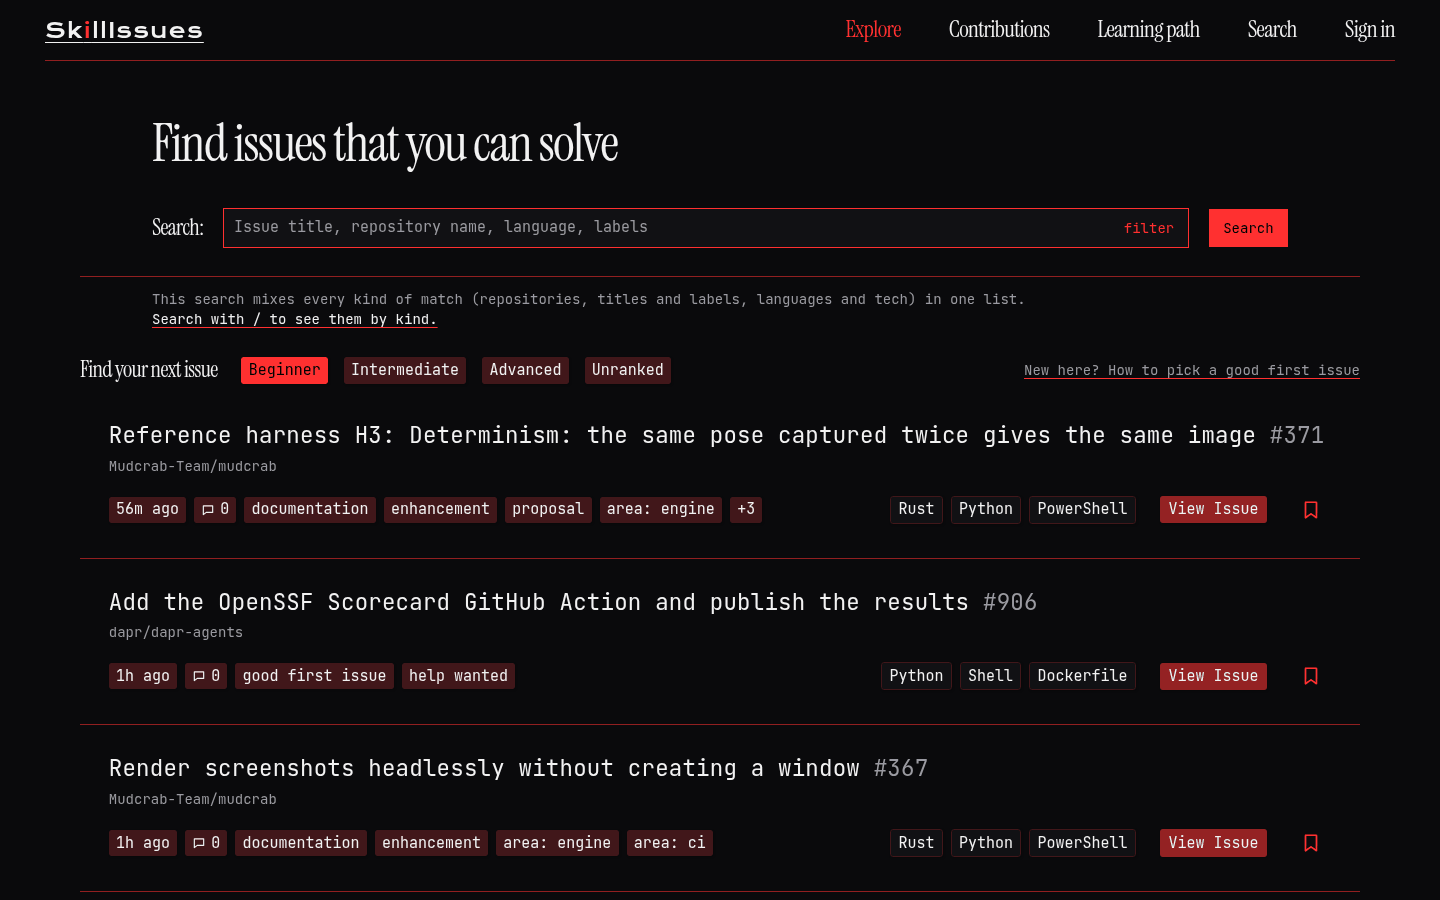
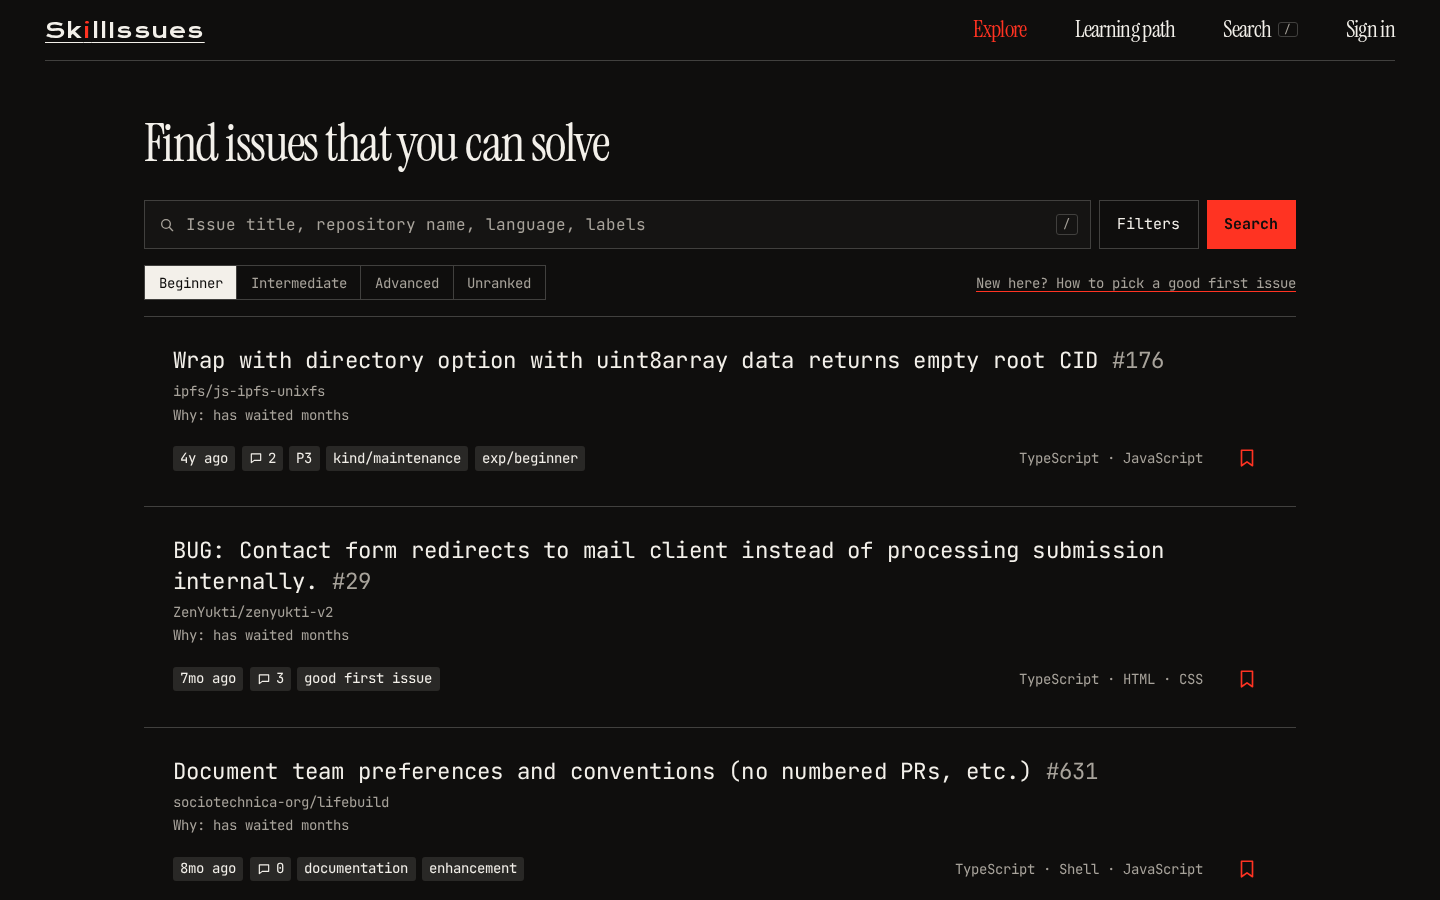
docs: website versions by date, desktop 1.4.0 notes, a current README
The changelogs version the website by merge date (2026.10.26) beside the
desktop's semver, with a table of every website version so far. The README
leads with the site's promise and fresh screenshots, and says how the
project uses AI tools. Desktop 1.4.0's notes cover the refreshed app.

diff --git a/web/content/docs/changelog.md b/web/content/docs/changelog.md
@@ -4,18 +4,28 @@ slug: /docs/changelog
 section: SkillIssues
 summary: Where releases are published, and a summary of the notable changes made recently.
 draft: false
-updated: 2026-10-24
+updated: 2026-10-27
 ---
 
 ## Releases
 
-Desktop builds and release notes are published on the [GitHub releases page](https://github.com/dizziedbliss/SkillIssues/releases). The website and API are not versioned that way: every change that is merged to the main branch passes its automated checks and is deployed.
+Desktop builds and release notes are published on the [GitHub releases page](https://github.com/dizziedbliss/SkillIssues/releases), numbered like `1.4.0`. The website and API deploy every change merged to the main branch once it passes its checks, so they're versioned by date instead: **website `2026.10.26`** is what was merged on 26 October (UTC).
 
 The full, detailed history is in [CHANGELOG.md](https://github.com/dizziedbliss/SkillIssues/blob/main/CHANGELOG.md) in the repository. This page summarises the parts you are most likely to notice.
 
 ## October 2026
 
-### A new home page and calmer colours, 24 October
+### Website 2026.10.26 · Desktop 1.4.0: a waiting issue, and a calmer app
+
+- **The home page leads with a real issue that has been waiting**, and how long: "Someone opened this 260 days ago. Nobody has fixed it yet." Pick a language and a level to swap it, or **[Find an issue]** to open Explore with those choices. It never shows an issue from a repository that's slow to merge, or one over a year old.
+- **Your profile, rebuilt.** Your level large at the top; **Next up** with your pull requests in review, issues you've claimed and your learning path, then the quests you're closest to finishing; one list of your pull requests with the XP each earned; earned badges, with how you earned each on hover.
+- **Your contributions**: your numbers, your year, every pull request with All, Merged and Open, where your XP came from, and every quest.
+- **Quicker to find things.** One search bar everywhere; filters that say what they mean when you open them; the levels and your languages in one row; `/` opens search as a palette. The top bar holds where you work, the Profile menu what's about you.
+- **Calmer colours.** Red marks what matters: the main button, where you are, what you've earned, and headings. Light mode is warmer and a little dimmer, easier over a long read.
+- **These docs** have an *On this page* index and previous and next pages.
+- **The live numbers no longer lock you out.** Leaving the home page open used to use up the requests a visitor may make in an hour; they don't count any more.
+
+### Website 2026.10.24 · Desktop 1.3.0: a new home page and calmer colours
 
 - **The Backlog Clock.** The home page opens on every open issue in the catalog as one live number, what arrived and closed today, and the closed-against-open bar.
 - **Find your issue in ten seconds.** Pick a language and a level and get three of today's picks, one per repository and nobody assigned, with no account.
@@ -24,13 +34,13 @@ The full, detailed history is in [CHANGELOG.md](https://github.com/dizziedbliss/
 - **Easier reading.** These docs and the legal pages set their text in a proportional face, larger and with a shorter line, and lists show their bullets again.
 - **A living background**: a quiet grid where issues light up as they arrive and close, in today's real proportions.
 
-### For you, 21 October
+### Website 2026.10.21: For you
 
 - **For you replaces Shuffle** as Explore's default. It picks issues that suit you (your languages, your level, what you've merged before), that look likely to get merged (labelled, a short discussion, recently active, a welcoming repository), and that have waited, with few people shown them lately. Each page is a weighted draw, so good matches come first more often but everyone sees different issues. Each card says why it's there. See [Finding issues](/docs/finding-issues).
 - **Explore starts from your profile.** Signed in, your preferred languages and level are the starting filters, shown under the search box with **Show every language**.
 - **Coming back keeps your place.** Opening an issue and returning, by Back or the link, keeps Explore's filters and page.
 
-### Owner feedback, 21 October
+### Website 2026.10.21 · Desktop 1.1.0 to 1.2.1: polish from review
 
 - **Working on, in the desktop app.** Every issue you've started in the app, and what's next for each. Commit (a title and an optional description), push (commits only) and open the pull request (you write it, and choose whether it closes the issue) are separate steps, each offered once there's something to do.
 - **Asked before it's done.** Giving up a learning path, releasing a claim and deleting a theme ask first.
@@ -42,7 +52,7 @@ The full, detailed history is in [CHANGELOG.md](https://github.com/dizziedbliss/
 - **The download page** offers the newest version for your system, the others, and older versions.
 - **Smaller desktop app**, and copying the sign-in code works.
 
-### The app, from its designs
+### Website 2026.10.20: the app, from its designs
 
 - **Explore.** The catalog as designed: search, a filter panel where every filter explains itself, difficulty buttons that start from your profile's level, and pages you can go back through. Click a card anywhere to open its issue, or its repository's name to see that repository's issues.
 - **Search, everywhere.** Press `/` or Ctrl+K on any page in the app. Results come as you type, sorted into repositories, titles and labels, and languages and tech, each with View more. See all results on the search page. See [Finding issues](/docs/finding-issues).
@@ -62,7 +72,9 @@ The full, detailed history is in [CHANGELOG.md](https://github.com/dizziedbliss/
 - **Reporting.** Signed in, report an issue, a repository or a shared theme. Reports are private, and enough of them take it out of lists until it's reviewed. See [Reporting](/docs/reporting).
 - **Community themes.** Browse the themes people have shared, most used or newest, in **Settings → Themes → Community**.
 
-### Catalog and search
+### Website 2026.10.14 to 2026.10.20: the groundwork
+
+#### Catalog and search
 
 - **Filters.** Filter the catalog by labels, main language, technologies a repository uses, repository topics, difficulty, and how many comments an issue has. See [Finding issues](/docs/finding-issues).
 - **A fair default feed.** The default order gives every repository one slot, showing its easiest open issue, in an order that is redrawn daily. Sorting by easiest or newest is still available.
@@ -70,13 +82,13 @@ The full, detailed history is in [CHANGELOG.md](https://github.com/dizziedbliss/
 - **Live counts.** The landing page reads live catalog counts from a new public `GET /stats` endpoint.
 - **Cursor paging.** The API can page through the catalog by cursor, which costs the same however deep you go. See [Public API](/docs/public-api).
 
-### Freshness
+#### Freshness
 
 - **Hourly updates from GH Archive.** Issues opened, edited, commented on or closed on GitHub now show up here within about two hours, without spending GitHub API quota. A slower monthly pass re-reads every repository directly to repair anything missed.
 - **Discovery.** A sweep of GitHub's repository search finds new repositories that qualify, so the catalog is no longer limited to the initial dataset.
 - **Issue descriptions.** The website reads issue descriptions from GitHub directly. If GitHub refuses because of your own rate limit, SkillIssues serves a cached copy as a fallback.
 
-### Themes
+#### Themes
 
 - **User themes.** Restyle the signed-in app with a theme file of design tokens and an optional stylesheet. Themes sync to your account and can be shared. See [Themes](/docs/themes).
 - **Built-in themes.** Twelve built-ins, each in light and dark, including Catppuccin, Dracula, Nord, Gruvbox, Solarized, Tokyo Night and Rosé Pine. Use one as it is, or customise your own copy.
@@ -85,25 +97,25 @@ The full, detailed history is in [CHANGELOG.md](https://github.com/dizziedbliss/
 - **Appearance.** The profile menu lists your recent themes to switch between.
 - **Light and dark in every theme.** Every built-in has a light and a dark half, and your own themes can too. The footer's theme button switches between them.
 
-### Website
+#### Website
 
 - **A new landing page and a rebuilt website**, being rolled out alongside the rebuilt desktop app.
 
-### Accounts and security
+#### Accounts and security
 
 - **No user tokens on the server.** Signing in uses a GitHub app that asks for no permissions. We read your numeric id, username and avatar, then discard the token. Anything that writes to GitHub moved into the desktop app. See [Security](/security).
 - **Verified releases.** Every image is built by public CI, signed, and verified on the server before it runs.
 - **Encrypted secrets and backups.** Production secrets are stored encrypted, and database backups are encrypted with a key that is not on the server.
 - **Cloudflare in front.** The site is set up to sit behind Cloudflare without changing how visitors are counted or limited.
 
-### Live visualizer
+#### Live visualizer
 
 - **SkillIssues Live.** A public, real-time view of data moving through the system, with anything tied to a signed-in person shown as random symbols. See [SkillIssues Live](/docs/skillissues-live).
 
-### Removed
+#### Removed
 
-- **XP, levels and badges.** The first version awarded these from pull requests verified with a stored user token. They were removed with the no-stored-tokens redesign. The plan for a replacement is on the [Leaderboard](/leaderboard) page.
+- **XP, levels and badges.** The first version awarded these from pull requests verified with a stored user token. They were removed with the no-stored-tokens redesign, and came back on 21 October as a ledger of merges the server verifies itself. See [How XP works](/docs/xp).
 
-## Version 1.0.0, 13 October 2026
+## Website 2026.10.13 · Desktop 1.0.0
 
 The first production release. The site went live on a real server with automated, gated deploys, and the web and desktop apps began sharing one set of code for talking to the API and drawing the interface.

diff --git a/CHANGELOG.md b/CHANGELOG.md
@@ -2,12 +2,63 @@
 
 All notable changes to **SkillIssues** will be documented in this file.
 
-The format is based on [Keep a Changelog](https://keepachangelog.com/en/1.1.0/),
-and this project adheres to [Semantic Versioning](https://semver.org/spec/v2.0.0.html).
+The format is based on [Keep a Changelog](https://keepachangelog.com/en/1.1.0/).
+
+**Versions.** The website and API deploy on every merge to `main`, so they are versioned by date:
+**website `YYYY.MM.DD`**, the UTC day the changes were merged (a second deploy that day would be
+`YYYY.MM.DD.2`). The desktop app keeps [Semantic Versioning](https://semver.org/spec/v2.0.0.html)
+(`v1.4.0`), one tag per release; its notes are in `desktop/release-notes.md`.
+
+| Website | Pull requests | What changed |
+|---|---|---|
+| **2026.10.26** | #148–#151 | A real waiting issue leads the home page; the app, profile, contributions, docs and footer refreshed; calmer colours and a softer light mode; `/stats` no longer counts against the rate limit; contributor rules for AI tools; dead files removed. Desktop 1.4.0. |
+| 2026.10.24 | #143–#147 | The Backlog Clock home page, repository finder, AA brand colours, readable docs; persistent logs with IPs stripped, discovery sweeps reopen, image pruning. Desktop 1.3.0. |
+| 2026.10.22 | #136–#141 | GitHub errors classified by type; stars no longer raise recommendations; docs checked against the code; the README. |
+| 2026.10.21 | #53, #106–#135 | Reporting, the beginner's checklist, community themes; XP, claims, quests, learning paths, public profiles, repository health; For you as the default feed; moderators' Reports; SEO; the mark and wordmark. Desktop 1.1.0–1.2.1. |
+| 2026.10.20 | #71–#105 | Faster search and catalog; filters, the shuffled feed, facets, `/stats`; user themes; the rebuilt web app, docs on the site; the site on Vercel; sign-in, Settings and themes in the app. |
+| 2026.10.19 | #64–#70 | The catalog read in index order; a reserved interactive budget; GH Archive freshness; issue bodies as a fallback; Cloudflare-aware client addresses. |
+| 2026.10.18 | #63 | More repositories excluded by name. |
+| 2026.10.17 | #58–#62 | The discovery sweeper; the live flow tap and its relay. |
+| 2026.10.16 | #34–#57 | No user tokens on the server; least-privilege database roles; SOPS secrets and encrypted backups; supply-chain hardening (pinned actions, signed images, govulncheck). |
+| 2026.10.15 | #27–#33 | Incremental freshness that detects closed issues; closed-issue pruning; notifications when a saved issue closes. |
+| 2026.10.14 | #15–#26 | Truthful metrics and Grafana; deploy fixes; an audit's fixes; first-seen and last-synced times. |
+| 2026.10.13 | #4–#14 | Production on one VPS: images, CI, deploys, guardrails. Desktop 1.0.0. |
 
 ---
 
-## [Unreleased]
+## [Website 2026.10.26] - 2026-10-26
+
+### Added
+- Home page: a real open issue that has waited, from today's For you picks (never a repository
+  flagged slow, never over a year old, welcoming repositories first), with language and level chips
+  to swap it, and four live numbers in place of the live bar (#149).
+- Profile header shared with public profiles; Next up (pull requests in review, claims, the learning
+  path, the closest quests); one merged pull request list with XP; earned badges as chips with their
+  criteria on hover (#150).
+- Docs: an On this page index and previous/next pages (#150).
+- `CONTRIBUTING.md`: *Using AI tools* and *What gets a pull request closed, even when CI passes*; a
+  pull request template; `AGENTS.md` for coding agents (#150).
+
+### Changed
+- One shared search bar (Explore, the search page, the palette); filters as self-explaining pills;
+  quieter issue cards; the learning path as rows; Settings as rows; themes drawn as miniatures;
+  reports as rows; the nav holds where you work, the menu what's about you (#150).
+- Rules and chips mix from the text colour, the accent marks headings and what matters; light mode
+  warmer and dimmer (ink 13.5:1); square corners follow the theme radius (#150).
+- The footer rebuilt (#150).
+
+### Fixed
+- `GET /stats` no longer counts against the signed-out rate limit and is cached in memory, so an
+  open landing tab can't lock a visitor out of the site (#148).
+
+### Removed
+- `benchmark/` (the early Python import prototype) and an unused image (#151).
+- Git history rewritten to drop committed build binaries and personal email addresses from commit
+  metadata; commit ids changed, code unchanged.
+
+## [Website 2026.10.13 – 2026.10.24, Desktop 1.1.0 – 1.3.0]
+
+Everything below, until 1.0.0, landed between those versions; the table above dates each one.
 
 ### Changed
 - Home page rework (web): the Backlog Clock (open issues, arrived and closed today from `GET /stats`),

diff --git a/README.md b/README.md
@@ -12,13 +12,14 @@
     <a href="https://github.com/dizziedbliss/SkillIssues/actions/workflows/deploy.yml"><img src="https://github.com/dizziedbliss/SkillIssues/actions/workflows/deploy.yml/badge.svg" alt="Deploy status"></a>
     <a href="https://github.com/dizziedbliss/SkillIssues/blob/main/backend/go.mod"><img src="https://img.shields.io/github/go-mod/go-version/dizziedbliss/SkillIssues?filename=backend%2Fgo.mod" alt="Go version"></a>
     <a href="LICENSE"><img src="https://img.shields.io/github/license/dizziedbliss/SkillIssues" alt="MIT license"></a>
+    <a href="https://skillissues.dizziedbliss.lol/docs/changelog"><img src="https://img.shields.io/badge/website-2026.10.26-c8190b" alt="Website version"></a>
 </p>
 
-<p align="center"><strong>You have the skills. We have the issues.</strong><br />
+<p align="center"><strong>Find an issue you can solve, in ten seconds.</strong><br />
 Open issues from active GitHub projects, matched to your languages, skills and level.<br />
-Pick one, fix it, get it merged, level up.</p>
+Pick one, fix it, get it merged, level up. Free and open source, every feature.</p>
 
-<p align="center"><img width="800" alt="Explore: beginner issues from real repositories, with their labels and languages" src=".github/assets/explore.png" /></p>
+<p align="center"><img width="800" alt="The home page: a real issue that has been waiting 260 days, and the promise to find one in ten seconds" src=".github/assets/landing.png" /></p>
 
 ## Why
 
@@ -29,6 +30,8 @@ Meanwhile millions of open issues sit on GitHub waiting for exactly that person.
 SkillIssues connects the two. It keeps every open issue of hundreds of thousands of active
 repositories fresh, works out which ones fit you, helps you set up a workspace, and pays you XP
 when GitHub says your fix was merged.
+
+<p align="center"><img width="800" alt="Explore: beginner TypeScript issues from real repositories, with their labels and languages" src=".github/assets/explore.png" /></p>
 
 ## Features
 
@@ -52,6 +55,10 @@ when GitHub says your fix was merged.
   or write your own in TOML and share it
 - **Private by design:** the server never holds your GitHub token, not even encrypted. Public
   profiles are opt-in
+- **Free, all of it:** no plans, no ads, no paywalled features. If you have money for open source,
+  the site points you at the maintainers to sponsor instead
+- **Easy on the eyes:** dark by default, and a light mode with warm, slightly dimmed paper for
+  long reading
 - **Watch it run:** [SkillIssues Live](https://flow.dizziedbliss.lol) draws every request, query
   and crawled page moving through the system, in real time, with anything of yours turned into
   symbols
@@ -263,6 +270,7 @@ The full reference: [the themes guide](https://skillissues.dizziedbliss.lol/docs
 
 | | |
 |---|---|
+| [Changelog](https://skillissues.dizziedbliss.lol/docs/changelog) | What changed in each website and desktop version |
 | [Getting started](https://skillissues.dizziedbliss.lol/docs/getting-started) | Your first issue, from sign-in to merge |
 | [How XP works](https://skillissues.dizziedbliss.lol/docs/xp) | What earns XP, levels, streaks, badges, quests |
 | [For maintainers](https://skillissues.dizziedbliss.lol/maintainers) | How your repository gets listed, and how to ask for it not to be |
@@ -277,6 +285,11 @@ Bug reports, fixes, docs, tests, translations and accessibility improvements are
 Read [CONTRIBUTING.md](CONTRIBUTING.md) and the [Code of Conduct](CODE_OF_CONDUCT.md), then open
 an issue (there's a form for each kind, including "my repository isn't indexed" and "exclude my
 repository") or a pull request.
+
+SkillIssues is built with AI coding tools, mostly Claude, with every change directed, read and
+tested by a person before it merges. You're welcome to use them too: *Using AI tools* in
+CONTRIBUTING.md has the rules, and [AGENTS.md](AGENTS.md) is the brief for coding agents
+([CLAUDE.md](CLAUDE.md) is the full one).
 
 Found a security problem? Please don't open an issue: use
 [private vulnerability reporting](https://github.com/dizziedbliss/SkillIssues/security/advisories/new).

diff --git a/desktop/release-notes.md b/desktop/release-notes.md
@@ -5,6 +5,18 @@ Each release's notes are the section under its version. The release workflow
 refuses to build a tag that has none; the app shows the same notes when an
 update is available, and once after it installs.
 
+## 1.4.0
+
+**A calmer, clearer app.** Lines and chips are quiet now, and red is kept for what matters: the main button, where you are, what you've earned, and section headings. Light mode uses warmer, slightly dimmed paper and softer ink, easier on the eyes over a long session.
+
+**Your profile, rebuilt.** Your level sits large at the top with its bar, your merges, languages and streak beside it. **Next up** leads with what you're doing (pull requests in review with where they stand, issues you've claimed, your learning path), then the quests you're closest to finishing. Your pull requests are one list, each once, with the XP it earned. Hover a badge to see how you earned it.
+
+**Your contributions** show your numbers, your year, every pull request with All, Merged and Open, where your XP came from, and every quest.
+
+**Finding issues is quicker.** One search bar everywhere, with Filters beside it; filters are a row of pills that say what they mean when you open them; the levels and your languages sit in one row you can clear. Search (`/`) opens as a palette with results as you type.
+
+**Tidier everywhere else:** issue pages show six labels before "+ more", the learning path is a list you can start with one click, Settings is a row per setting with a shorter language list, themes appear as miniatures of themselves, and the menu holds what's about you while the top bar holds where you work.
+
 ## 1.3.0
 
 **Easier on the eyes.** The Default and Midnight themes moved from pure white and pure black to warm paper and ink, with softer lines. The red is still fully saturated, now set for each mode so text on it and in it is easy to read: every pairing passes WCAG AA. Your own themes are unchanged; ones built on Default or Midnight pick up the new colours for anything they don't set.

diff --git a/CLAUDE.md b/CLAUDE.md
@@ -371,6 +371,10 @@ top frame.
   credentials) and downloads only when asked; then restart, or it installs on quit. The first start
   after an update shows What's new once (`whatsNew`, from `lastVersion` in state.json). macOS isn't
   signed, so there "download" opens the release page.
+- **Versions.** The website and API are versioned by the UTC date their changes merged (`2026.10.26`;
+  a second deploy that day is `2026.10.26.2`); the desktop by semver tags. Each website version gets a
+  row in `CHANGELOG.md`'s table and a section there, and a section in `web/content/docs/changelog.md`
+  (with the desktop version it shipped with, if any). Update both in the pull request that ships it.
 - **Release notes are in the repository**: `desktop/release-notes.md`, one `## x.y.z` section per
   version. `release.yml` refuses a tag without one (`scripts/release-notes.sh`) and puts it on the
   GitHub release.

diff --git a/AGENTS.md b/AGENTS.md
@@ -83,6 +83,8 @@ The maintainer's direction for every screen. Full version: *Interface design* in
 - Never push to `main`; it changes only through reviewed pull requests.
 - Commit only when the maintainer asks. When you do, push the branch in the same step.
 - One concern per pull request. Say what changed, why, how you tested it, and that an AI tool was used.
+- The website is versioned by merge date (`2026.10.26`), the desktop by semver tags. A change people will
+  notice gets a line in `CHANGELOG.md` and `web/content/docs/changelog.md` under its website version.
 
 ## Never do these
 
